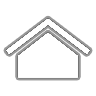
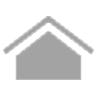
adicionando as alterações no side menu

diff --git a/src/main/java/totalcross/sample/main/TCSample.java b/src/main/java/totalcross/sample/main/TCSample.java
@@ -1,27 +1,31 @@
 package totalcross.sample.main;
 
 import totalcross.io.IOException;
-import totalcross.sample.components.AwesomeFontSample;
-import totalcross.sample.components.ButtonSample;
-import totalcross.sample.components.CameraSample;
-import totalcross.sample.components.CheckRadioSample;
-import totalcross.sample.components.ComboListSample;
-import totalcross.sample.components.EditSample;
-import totalcross.sample.components.Home;
-import totalcross.sample.components.ListContainerSample;
-import totalcross.sample.components.MessageBoxSample;
+import totalcross.sample.components.*;
 import totalcross.sample.util.Colors;
-import totalcross.sample.util.Images;
 import totalcross.sys.Settings;
+import totalcross.ui.Container;
+import totalcross.ui.ImageControl;
+import totalcross.ui.Insets;
+import totalcross.ui.Label;
 import totalcross.ui.MainWindow;
 import totalcross.ui.SideMenuContainer;
+import totalcross.ui.font.Font;
 import totalcross.ui.gfx.Color;
 import totalcross.ui.image.Image;
 import totalcross.ui.image.ImageException;
 
+
 public class TCSample extends MainWindow {
 
 	SideMenuContainer sideMenu;
+	private final int COMPONENT_H = fmH-16;
+	//private final int FLAT_EDGE_MARGIN = (int) (Math.min(Settings.screenHeight, Settings.screenWidth) * 0.20);
+	
+	static {
+		Settings.applicationId = "VKSS";
+		Settings.appVersion = "1.0.1";
+	}
 	
 	public TCSample() {
 		
@@ -36,26 +40,22 @@ public class TCSample extends MainWindow {
 	
 	@Override
 	public void initUI() {
-		
-		
 		try{
+		
+			SideMenuContainer.Item home = new SideMenuContainer.Item("Home", new Image("images/bt_home.png").hwScaledFixedAspectRatio(fmH*2,true),  () -> { return new Home(); });
+			SideMenuContainer.Item login= new SideMenuContainer.Item("Login", new Image("images/bt_login.png").hwScaledFixedAspectRatio(fmH*2,true),  () -> { return new Login(); });
+			SideMenuContainer.Item buttons = new SideMenuContainer.Item("Button", new Image("images/square-inc.png").hwScaledFixedAspectRatio(fmH*2,true),  () -> { return new ButtonSample(); });
+			SideMenuContainer.Item edits = new SideMenuContainer.Item("Edit", new Image("images/format-text.png").hwScaledFixedAspectRatio(fmH*2,true),  () -> { return new EditSample(); });
+			SideMenuContainer.Item checkRadio = new SideMenuContainer.Item("Check and Radio", new Image("images/checkbox-marked.png").hwScaledFixedAspectRatio(fmH*2,true),  () -> { return new CheckRadioSample(); });
+			SideMenuContainer.Item comboList = new SideMenuContainer.Item("Combo and List", new Image("images/arrow-down-drop-circle.png").hwScaledFixedAspectRatio(fmH*2,true),  () -> { return new ComboListSample(); });
+			SideMenuContainer.Item listContainer = new SideMenuContainer.Item("List Container", new Image("images/view-agenda.png").hwScaledFixedAspectRatio(fmH*2,true),  () -> { return new ListContainerSample(); });	
+			SideMenuContainer.Item awesomeFont = new SideMenuContainer.Item("Awesome Font", new Image("images/format-font.png").hwScaledFixedAspectRatio(fmH*2,true),  () -> { return new AwesomeFontSample(); });
+			SideMenuContainer.Item camera = new SideMenuContainer.Item("Camera", new Image("images/camera.png").hwScaledFixedAspectRatio(fmH*2,true),  () -> { return new CameraSample(); });
+			SideMenuContainer.Item messageBox = new SideMenuContainer.Item("MessageBox", new Image("images/message.png").hwScaledFixedAspectRatio(fmH*2,true),  () -> { return new MessageBoxSample(); });
 			
-			SideMenuContainer.Item home = new SideMenuContainer.Item("Home", Images.getImageRed(new Image("images/bt_home.png").hwScaledFixedAspectRatio(fmH*2,true)),  () -> { return new Home(); });
-			SideMenuContainer.Item buttons = new SideMenuContainer.Item("Button", Images.getImageRed(new Image("images/square-inc.png").hwScaledFixedAspectRatio(fmH*2,true)),  () -> { return new ButtonSample(); });
-			SideMenuContainer.Item edits = new SideMenuContainer.Item("Edit", Images.getImageRed(new Image("images/format-text.png").hwScaledFixedAspectRatio(fmH*2,true)),  () -> { return new EditSample(); });
-			SideMenuContainer.Item checkRadio = new SideMenuContainer.Item("Check and Radio", Images.getImageRed(new Image("images/checkbox-marked.png").hwScaledFixedAspectRatio(fmH*2,true)),  () -> { return new CheckRadioSample(); });
-			SideMenuContainer.Item comboList = new SideMenuContainer.Item("Combo and List", Images.getImageRed(new Image("images/arrow-down-drop-circle.png").hwScaledFixedAspectRatio(fmH*2,true)),  () -> { return new ComboListSample(); });
-			SideMenuContainer.Item listContainer = new SideMenuContainer.Item("List Container", Images.getImageRed(new Image("images/view-agenda.png").hwScaledFixedAspectRatio(fmH*2,true)),  () -> { return new ListContainerSample(); });	
-			SideMenuContainer.Item awesomeFont = new SideMenuContainer.Item("Awesome Font", Images.getImageRed(new Image("images/format-font.png").hwScaledFixedAspectRatio(fmH*2,true)),  () -> { return new AwesomeFontSample(); });
-			SideMenuContainer.Item camera = new SideMenuContainer.Item("Camera", Images.getImageRed(new Image("images/camera.png").hwScaledFixedAspectRatio(fmH*2,true)),  () -> { return new CameraSample(); });
-			SideMenuContainer.Item messageBox = new SideMenuContainer.Item("MessageBox", Images.getImageRed(new Image("images/message.png").hwScaledFixedAspectRatio(fmH*2,true)),  () -> { return new MessageBoxSample(); });
-			
-			//SideMenuContainer.Item imageBook = new SideMenuContainer.Item("Image Book", Images.getImageRed(new Image("images/file-image.png").hwScaledFixedAspectRatio(fmH*2,true)),  () -> { return new ImageBookSample(); });
-			//SideMenuContainer.Item chart = new SideMenuContainer.Item("Chart", Images.getImageRed(new Image("images/chart-arc.png").hwScaledFixedAspectRatio(fmH*2,true)),  () -> { return new ChartSample(); });
-			//SideMenuContainer.Item grid = new SideMenuContainer.Item("Grid", Images.getImageRed(new Image("images/view-grid.png").hwScaledFixedAspectRatio(fmH*2,true)),  () -> { return new GridSample(); });
-			
-			sideMenu = new SideMenuContainer("Menu",
+			sideMenu = new SideMenuContainer(null,
 	        		home,
+	        		login,
 	        		buttons,
 	        		edits,
 	        		checkRadio,
@@ -64,12 +64,59 @@ public class TCSample extends MainWindow {
 	        		awesomeFont,
 	        		camera,
 	        		messageBox
-	        );
-	        
+	        ); 
+			sideMenu.topMenu.header = new Container() {
+				@Override
+				public void initUI() {
+					
+					try {
+						ImageControl fundo = new ImageControl(new Image("images/fundo.jpg"));
+						fundo.transparentBackground = true;
+						fundo.scaleToFit = true;
+						fundo.strechImage = true;
+						fundo.hwScale = true;
+						add(fundo,LEFT,TOP, FILL, FILL);
+						
+						ImageControl profile = new ImageControl(new Image("images/elon.png"));
+						profile.scaleToFit = true;
+						profile.transparentBackground = true;
+						add(profile, CENTER+35, BOTTOM-250, PARENTSIZE, PARENTSIZE+30);
+						
+						Label nome = new Label("Elon Musk");
+						nome.setForeColor(Colors.BACKGROUND);
+						nome.transparentBackground = true;
+						add(nome, LEFT+35, AFTER+15, PARENTSIZE+30, PARENTSIZE+10);
+						
+						Font mail = Font.getFont(true, Font.NORMAL_SIZE - 4);
+						Label email = new Label("elonmusk@totalcross.com");
+						email.setForeColor(Colors.P_GREY);
+						email.transparentBackground = true;
+						email.setFont(mail);
+						add(email, SAME, BOTTOM-70, PARENTSIZE, PARENTSIZE+8);
+						
+						
+						
+					} catch (IOException | ImageException e) {
+						// TODO Auto-generated catch block
+						e.printStackTrace();
+					}
+				}
+				
+				@Override
+				public int getPreferredHeight() {
+				return fmH * 11;
+				}
+			};
+			
+			sideMenu.topMenu.scInsets = new Insets(0, 0, 0, 0);
+			sideMenu.setBarFont(Font.getFont(Font.getDefaultFontSize() + COMPONENT_H));
 	        sideMenu.setBackColor(Colors.PRIMARY);
 	        sideMenu.setForeColor(Color.BLACK);
+	        sideMenu.setItemForeColor(Colors.P_DARK);
+	        sideMenu.topMenu.drawSeparators = false;
+	        sideMenu.topMenu.itemHeightFactor = 3;
 	        
-			add(sideMenu, LEFT, TOP, FILL, FILL);
+			add(sideMenu, LEFT, TOP, PARENTSIZE, PARENTSIZE);
 		
 		} catch (ImageException e) {
 			e.printStackTrace();

diff --git a/src/main/java/totalcross/sample/components/Login.java b/src/main/java/totalcross/sample/components/Login.java
@@ -1,0 +1,84 @@
+package totalcross.sample.components;
+
+import totalcross.io.IOException;
+import totalcross.res.Resources;
+import totalcross.sample.util.Colors;
+import totalcross.sample.util.Images;
+import totalcross.sys.Vm;
+import totalcross.ui.Button;
+import totalcross.ui.Check;
+import totalcross.ui.Container;
+import totalcross.ui.Edit;
+import totalcross.ui.ImageControl;
+import totalcross.ui.dialog.MessageBox;
+import totalcross.ui.event.ControlEvent;
+import totalcross.ui.event.Event;
+import totalcross.ui.gfx.Color;
+import totalcross.ui.image.Image;
+import totalcross.ui.image.ImageException;
+
+public class Login extends Container{
+	private Edit edPass, edLogin;
+	private Check ch;
+	private Button btLogin, btRegister;
+	private ImageControl ic;
+	
+	public void initUI(){
+		try {
+			
+			ic = new ImageControl(new Image("images/logo.png"));
+			ic.scaleToFit = true;
+			ic.centerImage = true;
+			add(ic, LEFT, TOP+100, FILL, PARENTSIZE+30);
+			
+			edLogin = new Edit();
+			edLogin.caption = "Login";
+			edLogin.setBackColor(Color.RED);
+			add(edLogin, CENTER, AFTER+60, PARENTSIZE+90, PREFERRED+30);
+			
+			edPass = new Edit();
+			edPass.caption = "Password";
+			edPass.setBackColor(Color.RED);
+			add(edPass, SAME, AFTER+70, PARENTSIZE+90, PREFERRED+30);
+			
+			ch = new Check("Remember Me");
+			add(ch, LEFT+86, AFTER+100, PARENTSIZE, PREFERRED+30);
+			
+			btLogin = new Button("Login");
+			btLogin.setBackColor(Color.WHITE);
+			add(btLogin, CENTER, AFTER+140, PARENTSIZE+80, PREFERRED+60);
+			
+			btRegister = new Button("Register Now");
+			btRegister.transparentBackground = true;
+			btRegister.setBorder(BORDER_NONE);
+			add(btRegister, CENTER, AFTER, PARENTSIZE+30, PREFERRED+20);
+			btRegister.addPressListener(e -> {Vm.exec("url", "http://www.totalcross.com", 0, true);});
+			
+		} catch (IOException | ImageException e) {
+			// TODO Auto-generated catch block
+			e.printStackTrace();
+		}
+	}
+	
+	public void onEvent(Event e){
+		try{
+			switch(e.type){
+				case ControlEvent.PRESSED:
+					if(e.target == btLogin){
+						if(edLogin.getLength() == 0 || edPass.getLength() == 0){
+							MessageBox mb = new MessageBox("Message","Please fill all fields!",new String[]{"Close"});
+							mb.setBackColor(Colors.BACKGROUND);
+				        	mb.setForeColor(Colors.FOREGROUND);
+							mb.headerColor = Colors.KHAKI;
+							mb.footerColor = Colors.BACKGROUND;
+							mb.setIcon(Images.getImageBlack(Resources.warning.getFrameInstance(0)));
+					    	mb.popup();
+							
+						}
+					}
+			}
+		}catch(Exception ee){
+			MessageBox.showException(ee, true);
+		}
+	}
+}

diff --git a/src/main/java/totalcross/sample/components/EditSample.java b/src/main/java/totalcross/sample/components/EditSample.java
@@ -1,6 +1,7 @@
 package totalcross.sample.components;
 
 import totalcross.ui.Container;
+import totalcross.sample.util.Colors;
 import totalcross.sample.util.Util;
 import totalcross.sys.Settings;
 import totalcross.sys.Vm;
@@ -10,6 +11,7 @@ import totalcross.ui.ScrollContainer;
 import totalcross.ui.dialog.MessageBox;
 import totalcross.ui.dialog.TimeBox;
 import totalcross.ui.gfx.Color;
+import totalcross.ui.UIColors;
 
 public class EditSample extends Container {
 	
@@ -36,7 +38,10 @@ public class EditSample extends Container {
 		try
 	    {
 	      Settings.is24Hour = true;
-	      
+	      UIColors.calculatorFore = Colors.BACKGROUND;
+	      UIColors.numericboxBack = Colors.BACKGROUND;
+	      UIColors.calendarBack = Colors.BACKGROUND;
+	      UIColors.timeboxVisorBack = Colors.BACKGROUND;
 	      sc = new ScrollContainer(false, true);
 		  sc.setInsets(SC_GAP, SC_GAP, SC_GAP, SC_GAP);
 		  add(sc,LEFT,TOP,FILL,FILL);
@@ -69,6 +74,7 @@ public class EditSample extends Container {
 	      numericEdit.setMode(Edit.CURRENCY); 
 	      numericEdit.setBackColor(Color.darker(Color.CYAN));
 	      numericEdit.setKeyboard(Edit.KBD_NUMERIC);
+	      
 
 	      calculatorEdit = new Edit();
 	      calculatorEdit.caption = "Calculator Edit";

diff --git a/src/main/java/totalcross/sample/util/Colors.java b/src/main/java/totalcross/sample/util/Colors.java
@@ -4,17 +4,21 @@ import totalcross.ui.gfx.Color;
 
 public class Colors {
 	
-	public static final int PRIMARY = 0x4682B4;
+	public static final int PRIMARY = 0x18b7fb;
+	public static final int P_LIGHT = 0x6ee9ff;
+	public static final int P_DARK = 0x0087c8;
+	public static final int P_GREY = 0xCCCCCC;
+	
 	public static final int BACKGROUND = Color.getRGB(250, 250, 250);
 	public static final int FOREGROUND = 0x000000;
 	
 	public static final int BLUE = 0x2461A9;
-	public static final int RED = 0xC10828;
-	public static final int GREEN = 0x2E8B57;
-	public static final int ORANGE = 0xFFA500;
+	public static final int RED = 0xef5350;
+	public static final int GREEN = 0xaed581;
+	public static final int ORANGE = 0xffb74d;
 	public static final int YELLOW = 0xFFD700;
 	public static final int KHAKI = 0xF0E68C;
-	public static final int PURPLE = 0x9370DB;
+	public static final int PURPLE = 0xce93d8;
 	public static final int GRAY = 0xDCDCDC;
 	
 }

diff --git a/src/main/java/totalcross/sample/components/Home.java b/src/main/java/totalcross/sample/components/Home.java
@@ -9,7 +9,7 @@ import totalcross.ui.image.ImageException;
 
 public class Home extends Container {
 	
-	private int GAP = fmH*8;
+	private int GAP = fmH*10;
 	
 	@Override
 	public void initUI()
@@ -17,14 +17,14 @@ public class Home extends Container {
 		
 		try {
 			
-			ImageControl ic = new ImageControl(new Image("images/logoTC.png"));
+			ImageControl ic = new ImageControl(new Image("images/logo.png"));
 			ic.scaleToFit = true;
 			ic.centerImage = true;
 			
 			Label lbWelcome = new Label("Welcome to TotalCross!");
             lbWelcome.setFont(lbWelcome.getFont().asBold());
 
-	        add(ic, LEFT, TOP + GAP, FILL, PARENTSIZE + 40);
+	        add(ic, CENTER, AFTER+GAP, SCREENSIZE + 54, SCREENSIZE + 40);
 	        add(lbWelcome, CENTER, AFTER);
 	        
 		} catch (IOException e) {

diff --git a/src/main/java/totalcross/sample/components/AwesomeFontSample.java b/src/main/java/totalcross/sample/components/AwesomeFontSample.java
@@ -28,7 +28,7 @@ public class AwesomeFontSample extends Container{
    
 	    Label lbInfo = new Label("Hold char to see its unicode value");
 	    lbInfo.setFont(lbInfo.getFont().asBold());
-	    lbInfo.setForeColor(Colors.RED);
+	    lbInfo.setForeColor(Colors.P_DARK);
 	    sc.add(lbInfo, LEFT + GAP, AFTER + GAP, FILL - GAP, PREFERRED);
 	    
 	    int cols = Math.min(Settings.screenWidth, Settings.screenHeight) / (fmH*3);

diff --git a/src/main/java/totalcross/sample/components/ButtonSample.java b/src/main/java/totalcross/sample/components/ButtonSample.java
@@ -34,7 +34,7 @@ public class ButtonSample extends Container{
 		    add(sc,LEFT,TOP,FILL,FILL);
 			
 			simpleButton = new Button("Simple button");
-			simpleButton.setBackColor(Colors.BLUE);
+			simpleButton.setBackColor(Colors.P_DARK);
 			simpleButton.setForeColor(Color.WHITE);
 			
 			multiLineButton = new Button("This is\na multi-line\nButton");

diff --git a/src/main/java/totalcross/sample/components/CameraSample.java b/src/main/java/totalcross/sample/components/CameraSample.java
@@ -220,6 +220,7 @@ public class CameraSample extends Container {
 		}
 	}
 
+	@SuppressWarnings("resource")
 	private String copyToSD(File f) {
 		String ret = f.getPath();
 		try {
